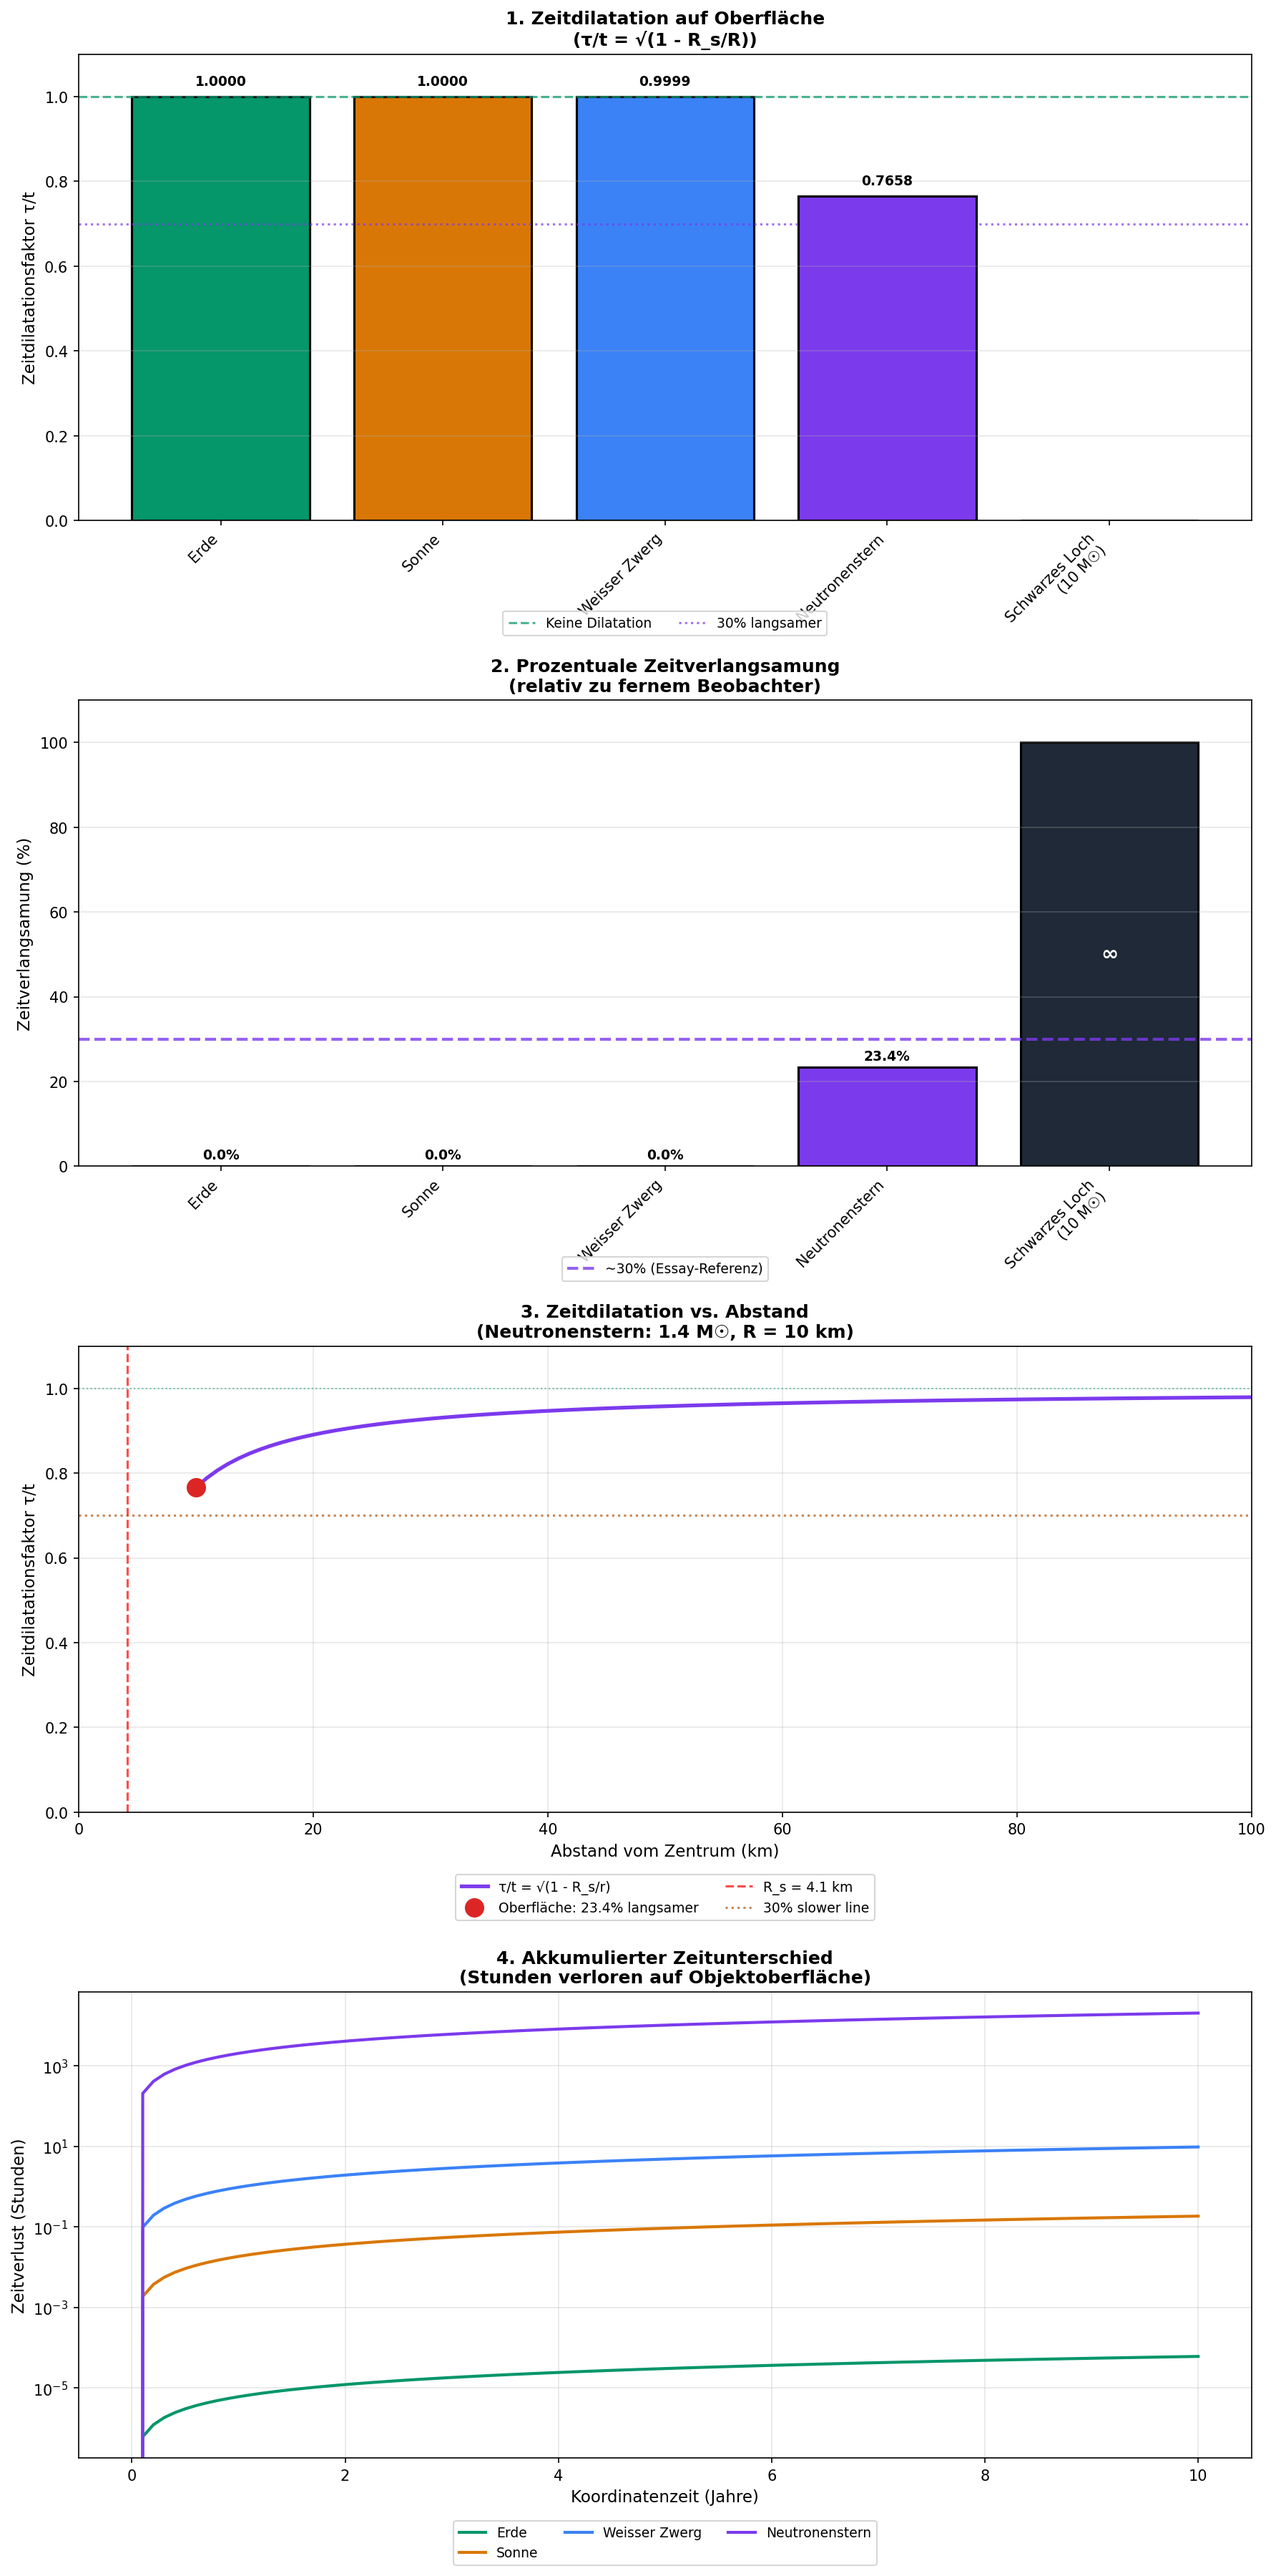
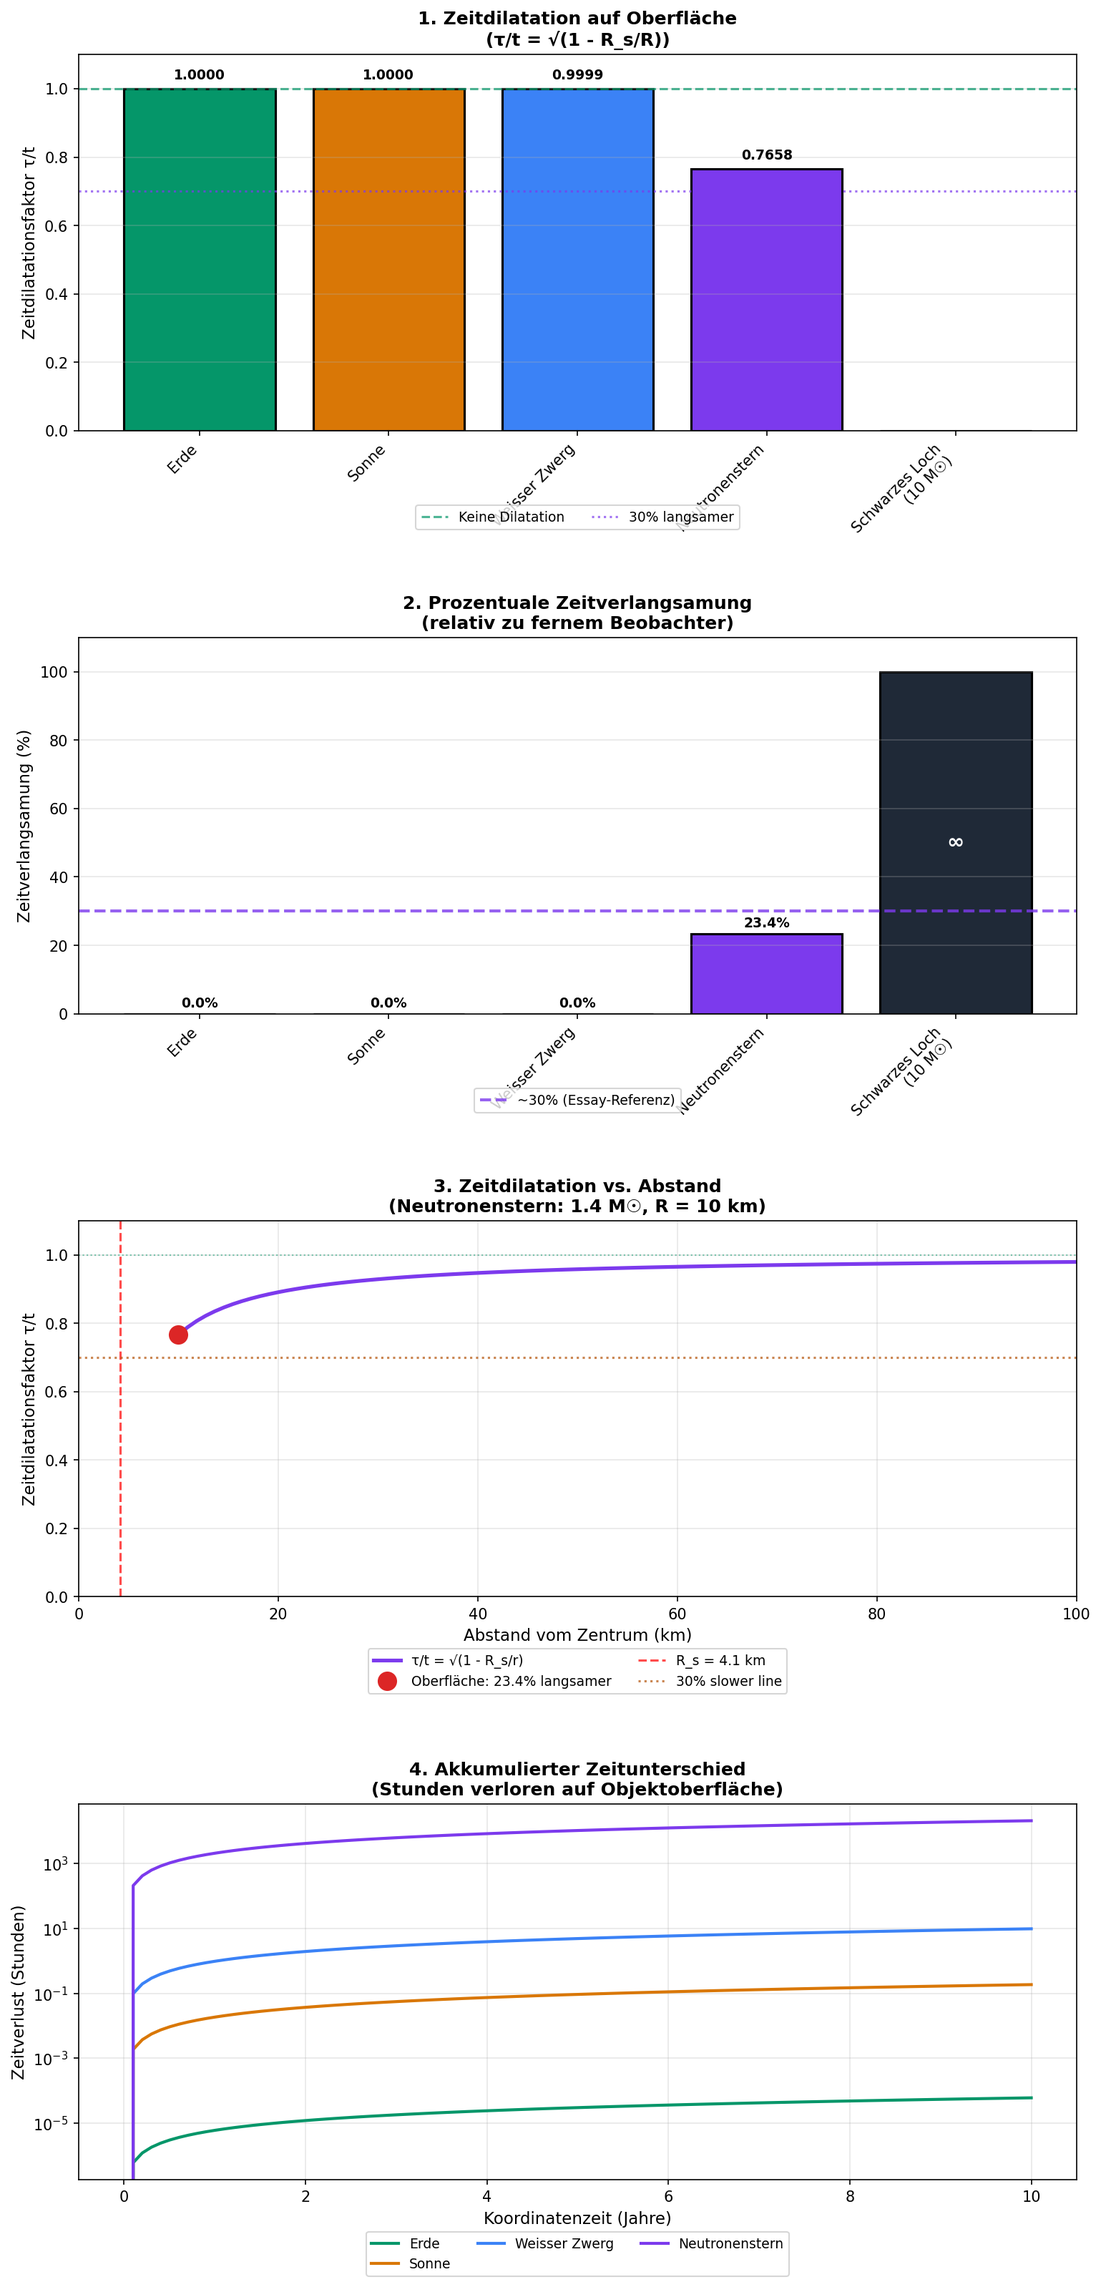
Improve time dilation graph spacing and remove in-graph summary
- Remove summary text panel from graphs (now in web UI)
- Increase spacing between plots (hspace: 0.45 -> 0.55)
- Fix title positioning to reduce gap with first plot
- Reduce figure height (28 -> 22) after removing summary panel
- Regenerate EN + DE versions of all time dilation graphs

diff --git a/modules/spacetime_curvature.py b/modules/spacetime_curvature.py
@@ -1242,8 +1242,8 @@ def plot_time_dilation_comparison(
         constants = get_constants()
 
     # Create figure with 4x1 vertical layout for better readability
-    fig, axes = plt.subplots(4, 1, figsize=(12, 24))
-    fig.subplots_adjust(hspace=0.45)  # Add more space between plots
+    fig, axes = plt.subplots(4, 1, figsize=(12, 22))
+    fig.subplots_adjust(hspace=0.55, top=0.96, bottom=0.06)  # Better spacing between plots
 
     # Get stellar objects
     objects = get_stellar_objects(constants)
@@ -1390,9 +1390,6 @@ def plot_time_dilation_comparison(
     ax4.legend(fontsize=9, loc='upper center', bbox_to_anchor=(0.5, -0.12), ncol=3)
     ax4.grid(True, alpha=0.3)
     ax4.set_yscale('log')
-
-    plt.subplots_adjust(bottom=0.15)
-    plt.tight_layout()
 
     if save:
         os.makedirs(VIS_DIR, exist_ok=True)
@@ -1558,8 +1555,8 @@ def plot_time_dilation_summary(
     if constants is None:
         constants = get_constants()
 
-    fig = plt.figure(figsize=(12, 28))
-    gs = fig.add_gridspec(5, 1, height_ratios=[1, 1, 1, 1, 0.8], hspace=0.45)
+    fig = plt.figure(figsize=(12, 22))
+    gs = fig.add_gridspec(4, 1, hspace=0.55)
 
     # Plot 1: Formula visualization
     ax1 = fig.add_subplot(gs[0])
@@ -1707,80 +1704,15 @@ def plot_time_dilation_summary(
     ax4.grid(True, alpha=0.3)
     ax4.set_yscale('log')
 
-    # Plot 5: Summary text panel
-    ax5 = fig.add_subplot(gs[4])
-    ax5.axis('off')
-
-    # Calculate specific values for the summary
-    earth_factor = gravitational_time_dilation_factor(constants.R_earth, constants.M_earth, constants)
-    wd_factor = gravitational_time_dilation_factor(8e6, 0.6 * constants.M_sun, constants)
-    ns_factor = gravitational_time_dilation_factor(10e3, 1.4 * constants.M_sun, constants)
-
-    if language == 'de':
-        summary_text = f"""
-                    GRAVITATIONELLE ZEITDILATATION - Zusammenfassung
-        ─────────────────────────────────────────────────────────────────
-
-        FORMEL:     τ/t = √(1 - Rₛ/r) = √(1 - 2GM/(rc²))
-
-                    τ = Eigenzeit (auf Objektoberfläche)
-                    t = Koordinatenzeit (für fernen Beobachter)
-
-                                    BEISPIELE:
-            • Erde:                 {(1-earth_factor)*100:.6f}% langsamer   (kaum messbar)
-            • Weißer Zwerg:         {(1-wd_factor)*100:.4f}% langsamer
-            • Neutronenstern:       {(1-ns_factor)*100:.1f}% langsamer   (~30% wie im Essay)
-            • Schwarzes Loch:       Zeit steht still am Ereignishorizont
-
-                        SCHLÜSSELAUSSAGE AUS DEM ESSAY:
-          "Auf der Oberfläche eines Neutronensterns vergeht die Zeit
-           etwa 30% langsamer als für einen entfernten Beobachter."
-
-                            PHYSIKALISCHE BEDEUTUNG:
-        Je stärker die Gravitation (größeres G oder kompakteres Objekt),
-             desto langsamer vergeht die Zeit → Extremfall: Schwarzes Loch
-        """
-    else:
-        summary_text = f"""
-                    GRAVITATIONAL TIME DILATION - Summary
-        ─────────────────────────────────────────────────────────────────
-
-        FORMULA:    τ/t = √(1 - Rₛ/r) = √(1 - 2GM/(rc²))
-
-                    τ = proper time (on object surface)
-                    t = coordinate time (for distant observer)
-
-                                    EXAMPLES:
-            • Earth:                {(1-earth_factor)*100:.6f}% slower   (barely measurable)
-            • White Dwarf:          {(1-wd_factor)*100:.4f}% slower
-            • Neutron Star:         {(1-ns_factor)*100:.1f}% slower   (~30% as in essay)
-            • Black Hole:           Time stops at event horizon
-
-                            KEY STATEMENT FROM ESSAY:
-           "On the surface of a neutron star, time passes
-            about 30% slower than for a distant observer."
-
-                            PHYSICAL MEANING:
-         The stronger gravity (larger G or more compact object),
-              the slower time passes → Extreme case: Black Hole
-        """
-
-    ax5.text(0.5, 0.5, summary_text, transform=ax5.transAxes, fontsize=11,
-             verticalalignment='center', horizontalalignment='center',
-             fontfamily='monospace',
-             bbox=dict(boxstyle='round', facecolor='white', alpha=0.95,
-                      edgecolor=COLORS['primary_blue'], linewidth=2))
-
-    # Overall title
+    # Overall title - position closer to first plot
     if language == 'de':
         fig.suptitle('Gravitationelle Zeitdilatation: Allgemeine Relativitätstheorie',
-                    fontsize=16, fontweight='bold', y=0.98)
+                    fontsize=16, fontweight='bold', y=0.995)
     else:
         fig.suptitle('Gravitational Time Dilation: General Relativity',
-                    fontsize=16, fontweight='bold', y=0.98)
+                    fontsize=16, fontweight='bold', y=0.995)
 
-    plt.subplots_adjust(bottom=0.05)
-    plt.tight_layout()
+    plt.subplots_adjust(top=0.96, bottom=0.06)
 
     if save:
         os.makedirs(VIS_DIR, exist_ok=True)
